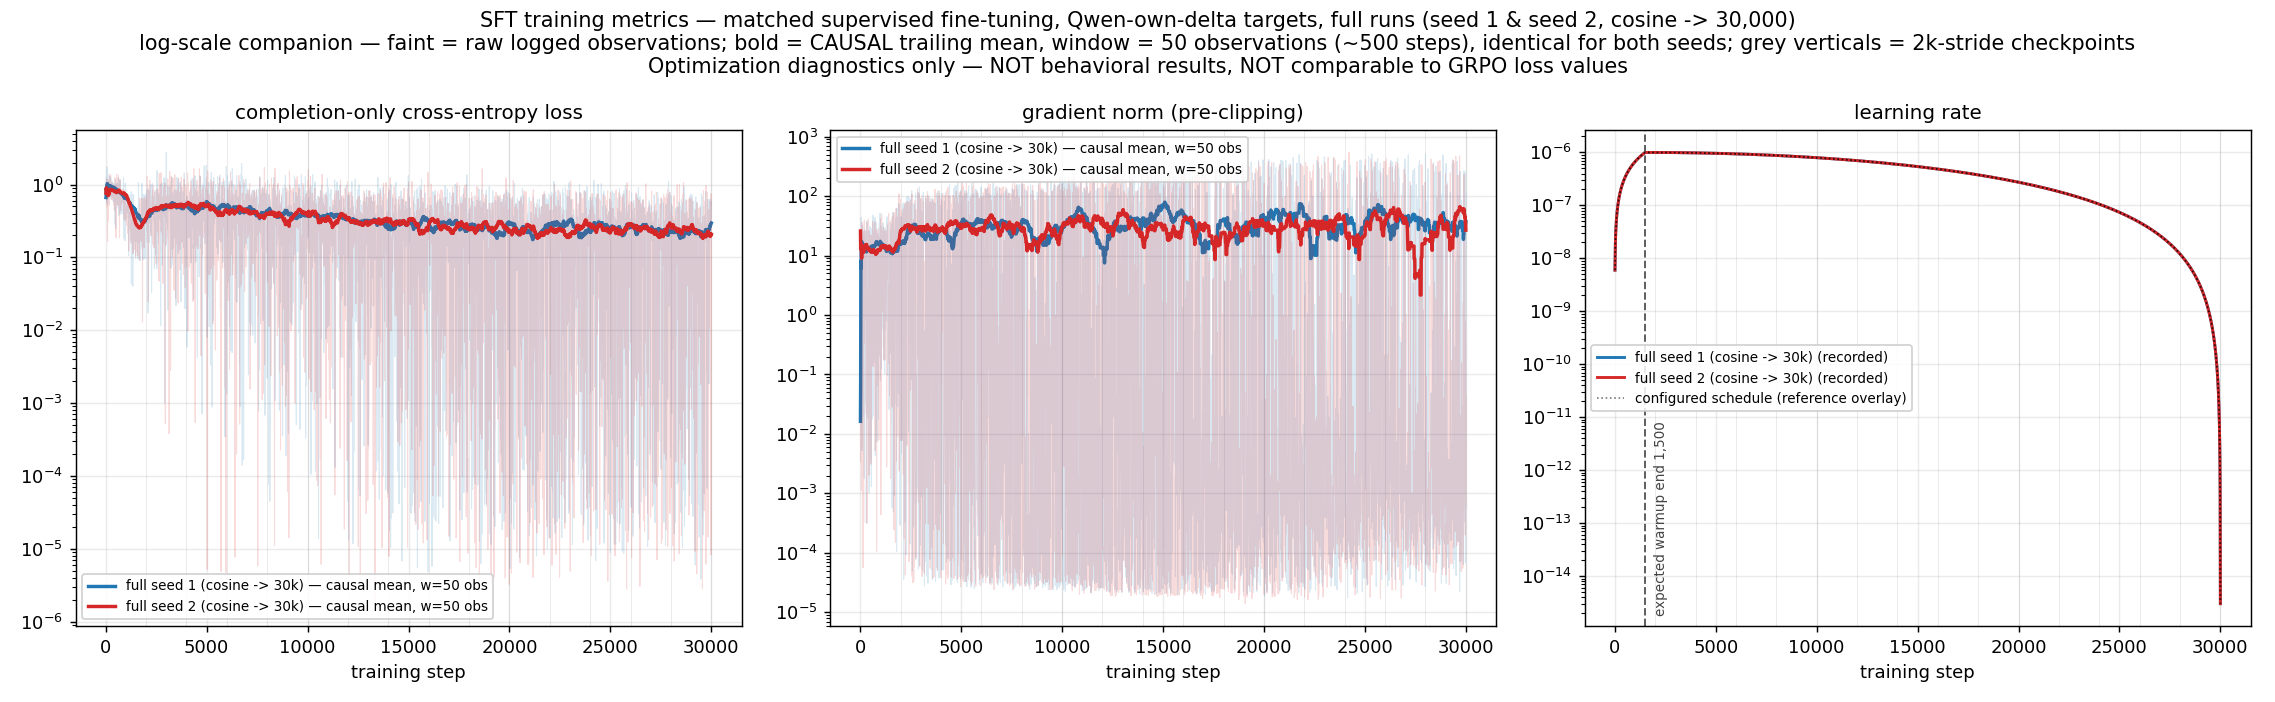
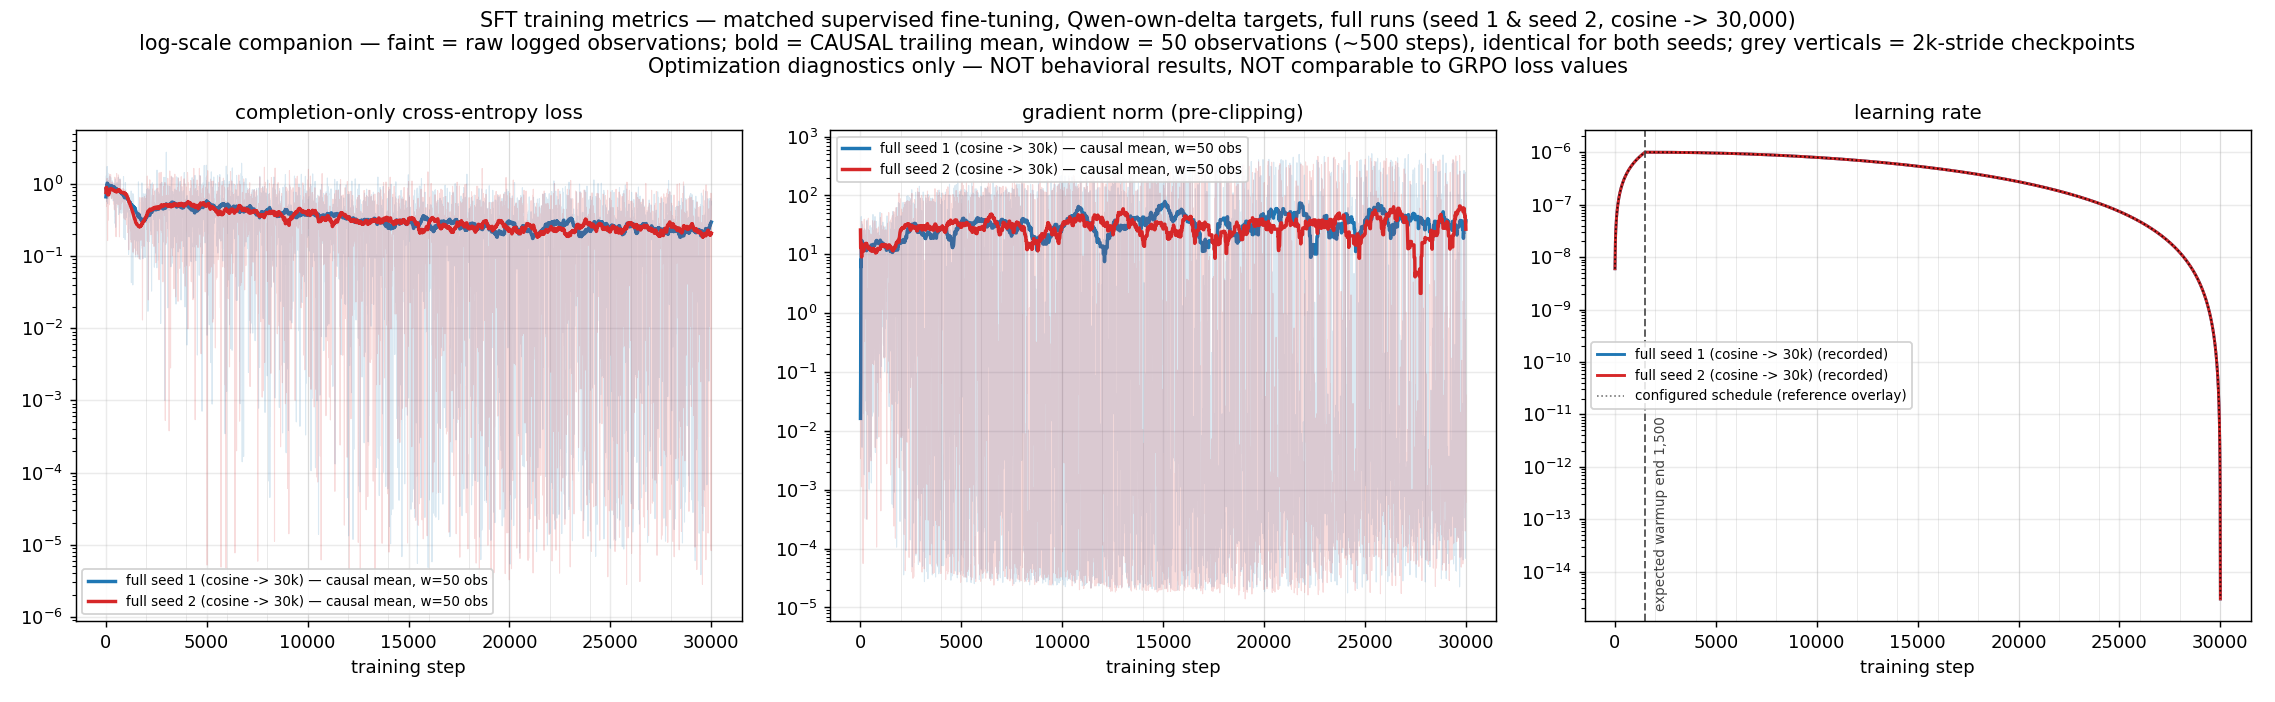
Crop the linear SFT training panels: loss to [0,1.5], grad norm to [0,100]
Both quantities have long thin tails — loss reaches 2.76 and gradient norm 543 —
which under autoscale compressed the informative band into a sliver. Fixing the
linear-figure viewing windows makes the causal-mean trajectories readable.

Cropping is a display choice, never a data change, so it is disclosed rather
than silently applied:
  * every observation stays in the CSVs, unmodified;
  * the log-scale companion figures still show the full range and are NOT
    cropped (a 0 lower bound is meaningless on a log axis);
  * each cropped panel prints how many logged points fall above the window
    (loss 17/6,000 = 0.3%; gradient norm 713/6,000 = 11.9% on the full runs);
  * sft_training_manifest.json gains an `axis_cropping` block recording the
    limits, the rationale, and per-run counts plus the maximum observed value,
    so a reader can reconstruct what is off-screen without the figures.

The gradient-norm crop hides a meaningful fraction (11.9%), which is exactly why
the count is stated on the panel: the tail is real and is the clipping story
already described in the summary, not noise to be quietly discarded.

diff --git a/eval/plot_sft_training_dynamics.py b/eval/plot_sft_training_dynamics.py
@@ -685,6 +685,14 @@ PANELS = [("loss", "completion-only cross-entropy loss"),
           ("grad_norm", "gradient norm (pre-clipping)"),
           ("learning_rate", "learning rate")]
 
+# Fixed viewing windows for the LINEAR figure only. Both quantities have long
+# thin tails (loss to 2.76, gradient norm to 543) that compress the bulk of the
+# data into a sliver under autoscale. Cropping is a display choice, not a data
+# change: every value stays in the CSV, the log-scale companion shows the full
+# range, and each cropped panel prints how many observations fall outside the
+# window so the crop can never be mistaken for the data ending there.
+PANEL_YLIM = {"loss": (0.0, 1.5), "grad_norm": (0.0, 100.0)}
+
 
 def _panel(ax, col, title, runs, window, logscale, mark_ckpts, warmups):
     for run_id, df in runs.items():
@@ -724,6 +732,23 @@ def _panel(ax, col, title, runs, window, logscale, mark_ckpts, warmups):
                         xytext=(5, 0), textcoords="offset points",
                         fontsize=7.5, color="#444444", rotation=90,
                         va="bottom", ha="left")
+    if not logscale and col in PANEL_YLIM:
+        lo, hi = PANEL_YLIM[col]
+        ax.set_ylim(lo, hi)
+        # Disclose the crop: count raw observations outside the window, per run.
+        total_out = total_n = 0
+        for df in runs.values():
+            v = df[col].to_numpy(dtype=float)
+            v = v[np.isfinite(v)]
+            total_out += int(((v < lo) | (v > hi)).sum())
+            total_n += v.size
+        if total_out:
+            ax.annotate(
+                f"y-axis cropped to [{lo:g}, {hi:g}]\n"
+                f"{total_out:,}/{total_n:,} points ({total_out / total_n:.1%}) "
+                f"above it — full range in the log companion",
+                xy=(0.5, -0.16), xycoords="axes fraction", ha="center",
+                va="top", fontsize=7.5, color="#7a2020", linespacing=1.35)
     ax.set_title(title, fontsize=11)
     ax.set_xlabel("training step")
     ax.grid(alpha=0.25)
@@ -739,7 +764,7 @@ def plot_runs(runs: dict[str, pd.DataFrame], path: Path, window: int,
         _panel(ax, col, title, runs, window, logscale, ckpt_marks, warmups)
     fig.suptitle(suptitle, fontsize=11.5, y=0.985, va="top")
     fig.tight_layout()
-    fig.subplots_adjust(top=0.815)
+    fig.subplots_adjust(top=0.815, bottom=0.175 if not logscale else 0.115)
     fig.savefig(path, dpi=130)
     plt.close(fig)
 
@@ -1695,6 +1720,19 @@ def do_render(out_dir: Path, refresh_block: dict | None) -> dict:
                 f"{d['train_steps_per_second']:.3g} steps/s.")
     summary["observations"] = obs
 
+    # Machine-readable record of what the linear figures crop, per run.
+    crop: dict = {}
+    for col, (lo, hi) in PANEL_YLIM.items():
+        per_run = {}
+        for r in run_order:
+            v = dfs[r][col].to_numpy(dtype=float)
+            v = v[np.isfinite(v)]
+            per_run[r] = {"n_outside": int(((v < lo) | (v > hi)).sum()),
+                          "n_total": int(v.size),
+                          "max_observed": float(v.max()) if v.size else None}
+        crop[col] = {"ylim": [lo, hi], "by_run": per_run}
+    summary["axis_crop_points_outside"] = crop
+
     behav_df, behav_status = build_behavioural(
         refresh_block.get("full_behavioral_grid_scan"))
     summary["behavioral"] = behav_status
@@ -1737,6 +1775,18 @@ def do_render(out_dir: Path, refresh_block: dict | None) -> dict:
             "block rather than recomputing these fields.",
         ],
         "smoothing": summary["smoothing"],
+        "axis_cropping": {
+            "applies_to": "the LINEAR training-metric figures only",
+            "limits": {k: list(v) for k, v in PANEL_YLIM.items()},
+            "rationale": (
+                "Loss and gradient norm have long thin tails (loss to ~2.76, "
+                "gradient norm to ~543) that compress the bulk of the data into "
+                "a sliver under autoscale. Cropping is a display choice only: no "
+                "value is altered or removed, the CSVs retain every observation, "
+                "the log-scale companion figures show the full range, and each "
+                "cropped panel states how many logged points fall outside."),
+            "points_outside": summary.get("axis_crop_points_outside", {}),
+        },
         "reproducibility_tolerances": {
             "summary_json_rtol": CHECK_RTOL,
             "summary_json_atol": CHECK_ATOL,
